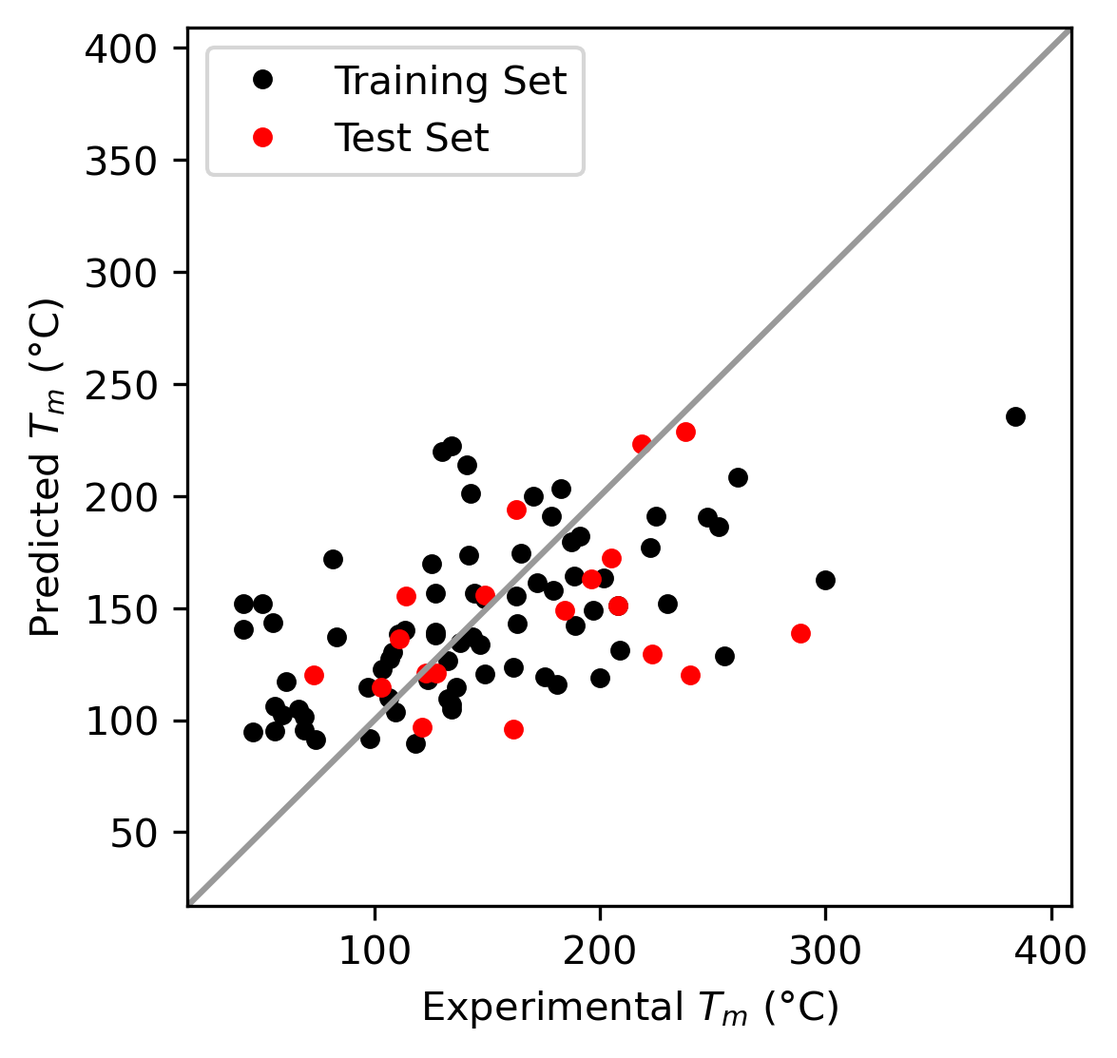
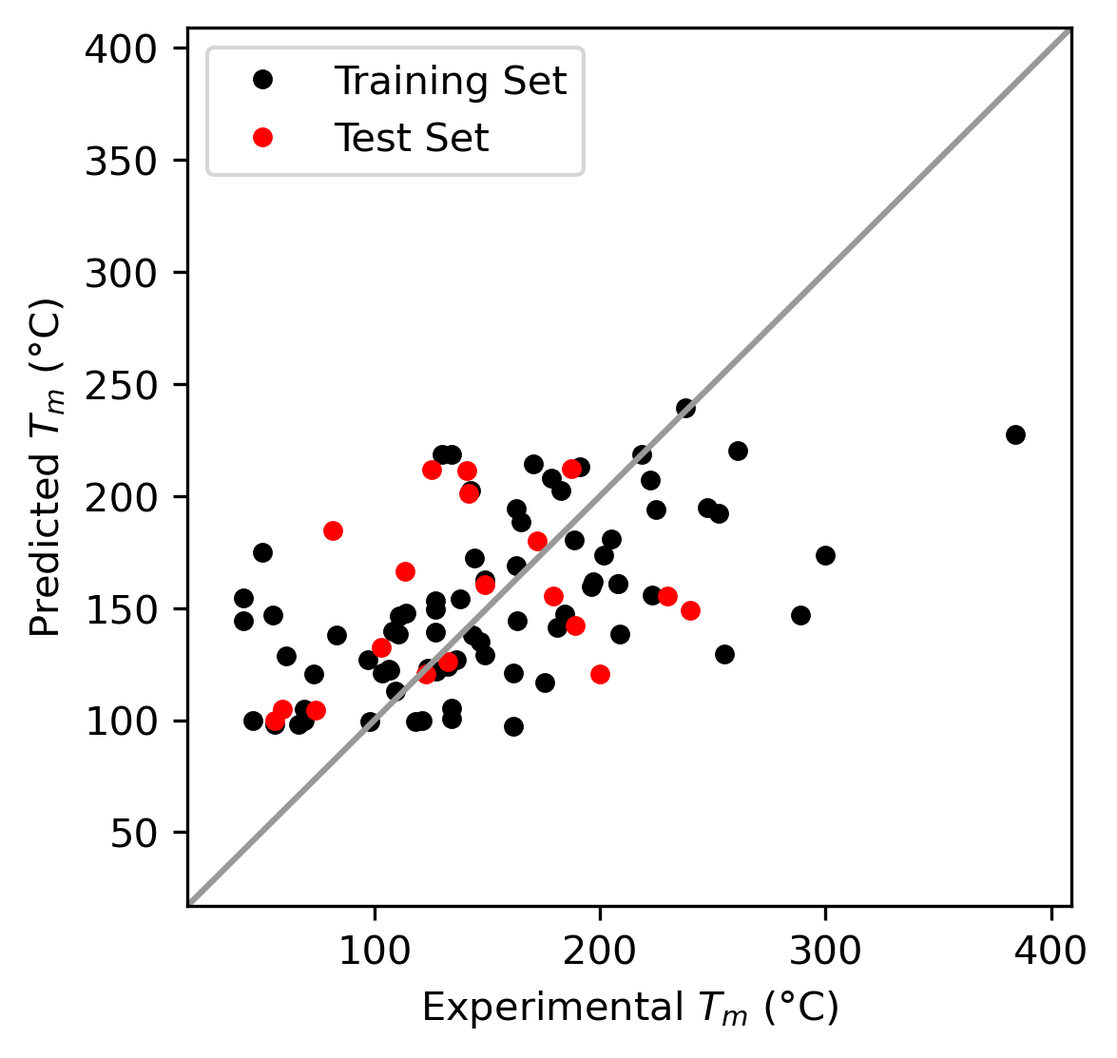
reshuffled quinone VBT set

diff --git a/mp_prediction_paper.py b/mp_prediction_paper.py
@@ -368,7 +368,7 @@ r'''
 r'''
 ## Abstract
 
-In this study, two different computational approaches were developed to predict the melting points of quinone and hydroquinone-based molecules. A traditional machine learning approach was used to calculate features with the Mordred molecular descriptor calculator and train a ridge regression machine learning model. A more simple model that utilizes volume-based thermodynamics to describe the enthalpy of fusion and previously published equations to capture the entropy of melting was also developed. The traditional machine learning model resulted in test set average absolute errors of ~30 C for the quinone test set and ~40 C for the hydroquinone test set. The thermodynamics-based model resulted in average absolute errors of ~40 for the quinone test set and ~30-35 C for the hydroquinone set. The features used for the thermodynamics-based ML model were also applied in a standard ridge regression model, which performed similarly to the functionalized forms of the thermodynamics-based models, indicating that it is the thermodynamic features themselves that are more important as opposed to the precise functional form of the model. Applying the thermodynamics-based model to the combined quinone and hydroquinone dataset resulted in average absolute errors of ~41 C. The machine learning model consistently outperformed the thermodynamic model for the quinone dataset, but the thermodynamic model surpassed the machine learning model for the hydroquinone dataset.
+In this study, two different approaches were investigated to predict the melting points of quinone and hydroquinone-based molecules. A traditional machine learning approach was used to calculate features with the Mordred molecular descriptor calculator and train a ridge regression machine learning model. A simpler model that utilizes volume-based thermodynamics to describe the enthalpy of fusion and previously published equations to capture the entropy of melting was also developed. The traditional machine learning model resulted in test set average absolute errors of ~30 C for the quinone test set and ~40 C for the hydroquinone test set. The thermodynamics-based model resulted in average absolute errors of ~40 for the quinone test set and ~30-35 C for the hydroquinone set. The features used for the thermodynamics-based ML model were also applied in a standard ridge regression model, which performed similarly to the functionalized forms of the thermodynamics-based models, indicating that it is the thermodynamic features themselves that are more important as opposed to the precise functional form of the model. Applying the thermodynamics-based model to the combined quinone and hydroquinone dataset resulted in average absolute errors of ~41 C. The machine learning model consistently outperformed the thermodynamic model for the quinone dataset, but the thermodynamic model surpassed the machine learning model for the hydroquinone dataset. In this study, we also publish four novel datasets for quinone and hydroquinone melting points and other key features.
 
 '''
 
@@ -377,11 +377,9 @@ In this study, two different computational approaches were developed to predict 
 r'''
 ## Introduction
 
-Quinone- and hydroquinone-based molecules have gathered attention recently as electrolyte candidate molecules for redox flow batteries, among other applications\cite{Shimizu2017,Kwabi2018,Goulet2019} __add more citations from EEP's paper__. Our group has recently proposed using a eutectic mixture of benzoquinone-based and naphthoquinone-based molecules as a high energy density positive electrolyte for flow batteries that remains liquid at room temperature. In order to identify promising materials for this application, knowing the melting temperatures of the quinone and hydroquinone molecules is essential. With the model from (Antonio's paper), the melting points of the pure component quinones and hydroquinones can be used to predict the melting point of a eutectic mixture. However, melting data is not always available for all the quinones and hydroquinones of interest. To address this challenge, we seek to develop a data-driven model that can be used to predict the melting points of quinone and hydroquinone molecules that are not available in literature. 
+Quinone- and hydroquinone-based molecules have gathered attention recently as electrolyte candidate molecules for redox flow batteries, among other applications\cite{Shimizu2017,Kwabi2018,Goulet2019} __add more citations from EEP's paper__. Our group has recently proposed using a eutectic mixture of benzoquinone-based and naphthoquinone-based molecules as a high energy density positive electrolyte for flow batteries that remains liquid at room temperature __cite EEP's paper__. In order to identify promising materials for this application, knowing the melting temperatures of the quinone and hydroquinone molecules is essential. With the model from (Antonio's paper), the melting points of the pure component quinones and hydroquinones can be used to predict the melting point of a eutectic mixture. However, melting data is not always available for all the quinones and hydroquinones of interest. To address this challenge, we seek to develop a computational model that can be used to predict the melting points of quinone and hydroquinone molecules that are not available in literature. 
 
-Many melting point prediction models employ group contribution method (GCM). This is an additive method that works by summing the contributions from all the various groups in a molecule (hence "group contribution method"). However, this method does not account for interactions between groups \cite{JOBACK1987}.
-
-Our model utilizes simple molecular descriptors that can be calculated from the two-dimensional structure of the model from a semi-empirical model previously proposed by Dannenfelser and Yalkowsky\cite{DannenfelserEntropy}. The model also uses molecular volume data, which can be calculated using crystal structure data or density measurements, or predicted computationally\cite{Day2011}. The molecular volume data contains information about the strength of the interactions between molecules in the solid phase. This approach provides an advantage over GCM in that the molecular volume in the solid phase of a species inherently accounts for the interactions between molecules.
+Many melting point prediction models employ group contribution method (GCM). This is an additive method that works by summing the contributions from all the various groups in a molecule (hence "group contribution method"). However, this method does not account for interactions between groups \cite{JOBACK1987}. Our model utilizes simple molecular descriptors that can be calculated from the two-dimensional structure of the model from a semi-empirical model previously proposed by Dannenfelser and Yalkowsky\cite{DannenfelserEntropy}. The model also uses molecular volume data, which can be calculated using crystal structure data or density measurements, or predicted computationally\cite{Day2011}. The molecular volume data is presumed to contain information about the strength of the interactions between molecules in the solid phase, and can be used as a proxy for the enthalpy of the solid phase. This approach provides an advantage over GCM in that the molecular volume in the solid phase of a species inherently accounts for the interactions between molecules.
 
 We hypothesized that by grouping molecules that we expected to have similar scaling relationships for enthalpies of melting, we would be able to significantly reduce the number of features required to predict melting points of these molecules with an accuracy comparable to that of traditional machine learning approaches.
 
@@ -407,7 +405,7 @@ From here, we sought to find equations that would describe the enthalpy and entr
 
 #### Entropy of Melting
 
-We use the equation developed by Dannenfelser and Yalkowsky\cite{DannenfelserEntropy} to estimate the entropy of melting:
+We use the equation developed by [Dannenfelser and Yalkowsky](https://doi.org/10.1021/ie940581z) to estimate the entropy of melting:
 $$
 \Delta S_m= a \textrm{ln}\sigma + b \tau + c
 $$
@@ -415,7 +413,7 @@ where $a,b,$ and $c$ are adjustable parameters to be fit with a non-linear least
 
 The first descriptor $\sigma$, which is the molecular symmetry number, is the number of unique rotations that can be performed on the molecule and return an indistinguishable orientation, in addition to the identity. At minimum, $\sigma$ must be 1. As sigma increases, the number of microstates (orientations of the molecule) that produce the same crystal structure increases, thus increasing the overall entropy of the solid (according to the Boltzmann equation, $\Delta S = k_B ln\Omega$. This results in a lower entropy of melting (difference between the entropy of the solid and liquid phases decreases).
 
-The second descriptor, $\tau$, is the number of torsional angles in the molecule and can be calculated using the formula\cite{DannenfelserEntropy}:
+The second descriptor, $\tau$, is the number of torsional angles in the molecule and can be calculated using the [formula](https://doi.org/10.1021/ie940581z):
 
 $$
 \tau = \textrm{SP3} + 0.5(\textrm{SP2}+\textrm{RING}) - 1
@@ -423,7 +421,7 @@ $$
 
 Here, SP3 is the number of $\textrm{sp}^3$ chain atoms (not including end carbons), SP2 is the number of $\textrm{sp}^2$ chain atoms (also not including end carbons), and RING is the number of fused-ring systems. As the effect of tau on the entropies of the solid and liquid phases varies depending on the class of molecules, it is difficult to say whether it increases or decreases the entropy of melting in general.
 
-This model was updated by Lian and Yalkowsky to include two more descriptors for entropy of melting in the Unified Physiochemical Property Estimation Relationships (UPPER) method \cite{LianUPPER2013}. These additional descriptors are 1) aromatic eccentricity - the number of atoms in aromatic rings, and 2) aliphatic eccentricity - the number of atoms in aliphatic (non-aromatic) rings. These terms capture the tendency of flat or elongated molecules to be partially ordered in the liquid (which decreases the change in entropy between the solid and liquid phase, thus decreasing the entropy of melting). Thus, the final form of the equation we used to model the entropy of melting was:
+This model was updated by Lian and Yalkowsky to include two more descriptors for entropy of melting in the [Unified Physiochemical Property Estimation Relationships (UPPER) method](https://doi.org/10.1002/jps.24033). These additional descriptors are 1) aromatic eccentricity - the number of atoms in aromatic rings, and 2) aliphatic eccentricity - the number of atoms in aliphatic (non-aromatic) rings. These terms capture the tendency of flat or elongated molecules to be partially ordered in the liquid (which decreases the change in entropy between the solid and liquid phase, thus decreasing the entropy of melting). Thus, the final form of the equation we used to model the entropy of melting was:
 
 $$
     \Delta S_m= a \textrm{ln}\sigma + b \tau + c \textrm{ln}\epsilon_{ar} + d \textrm{ln}\epsilon_{al} + f
@@ -513,65 +511,8 @@ Where we have normalized the constant in the denominator for reasons discussed a
 
 r'''
 ## Results and Discussion
-
-### Machine Learning Model
 '''
 
-# ML Plots
-#region
-
-col1,col2 = st.columns(2)
-# Quinone ML Plot
-
-with col1:
-    alpha_bq=st.slider('Quinone Ridge Regression alpha (click Generate New Plot after setting)',min_value=0,max_value=200,value=100)
-
-    if st.button('Generate New Quinone ML Plot'):
-        ml_bq_dict=ml_model(ml_dataset_dict,'Quinones',alpha_bq,False)
-
-        ml_bq_dict['Plot'].savefig('Plots/ML_BQ_plot.png',dpi=300)
-        st.write(ml_bq_dict['Plot'])
-
-        pd.Series(ml_bq_dict['AAE']).to_csv('Data Files/ML_BQ_AAE.csv',index=False)
-        pd.Series(ml_bq_dict['RMSE']).to_csv('Data Files/ML_BQ_RMSE.csv',index=False)
-        ml_bq_dict['Model Coefficients'].to_csv('Data Files/ML_BQ_Coefficients.csv',index=False)
-    else:
-        ml_bq_plot=Image.open('Plots/ML_BQ_plot.png')
-        ml_bq_dict = {'RMSE': pd.read_csv('Data Files/ML_BQ_RMSE.csv',squeeze=True),'AAE': pd.read_csv('Data Files/ML_BQ_AAE.csv',squeeze=True),'Plot': ml_bq_plot,'Model Coefficients': pd.read_csv('Data Files/ML_BQ_Coefficients.csv')}
-        
-        st.image(ml_bq_dict['Plot'],use_column_width=True)
-
-    st.markdown('''ML model for quinone dataset. Training set absolute average error is `{:.2f} C` and test set average absolute error is `{:.2f} C`. Training set RMSE is `{:.2f} C` and test set RMSE is `{:.2f} C`.'''.format(ml_bq_dict['AAE'][1],ml_bq_dict['AAE'][0],ml_bq_dict['RMSE'][1],ml_bq_dict['RMSE'][0]) )
-    st.write(ml_bq_dict['Model Coefficients'].sort_values(by='w_abs',ascending=False).head(20))
-
-
-# Hydroquinone ML Plot
-with col2:
-    alpha_hq=st.slider('Hydroquinone Ridge Regression alpha (click Generate New Plot after setting)',min_value=0,max_value=200,value=100)
-
-    if st.button('Generate New Hydroquinone ML Plot'):
-        ml_hq_dict=ml_model(ml_dataset_dict,'Hydroquinones',alpha_hq,False)
-        ml_hq_dict['Plot'].savefig('Plots/ML_HQ_plot.png',dpi=300)
-        st.write(ml_hq_dict['Plot'])
-        pd.Series(ml_hq_dict['AAE']).to_csv('Data Files/ML_HQ_AAE.csv',index=False)
-        pd.Series(ml_hq_dict['RMSE']).to_csv('Data Files/ML_HQ_RMSE.csv',index=False)
-        ml_hq_dict['Model Coefficients'].to_csv('Data Files/ML_HQ_Coefficients.csv',index=False)
-    else:
-        ml_hq_plot = Image.open('Plots/ML_HQ_plot.png')
-        ml_hq_dict = {'RMSE': pd.read_csv('Data Files/ML_HQ_RMSE.csv',squeeze=True),'AAE': pd.read_csv('Data Files/ML_HQ_AAE.csv',squeeze=True),'Model Coefficients': pd.read_csv('Data Files/ML_HQ_Coefficients.csv')}
-        st.image(ml_hq_plot,use_column_width=True)
-
-    st.markdown('''ML model for hydroquinone dataset. Training set absolute average error is `{:.2f} C` and test set average absolute error is `{:.2f} C`. Training set RMSE is `{:.2f} C` and test set RMSE is `{:.2f} C`.'''.format(ml_hq_dict['AAE'][1],ml_hq_dict['AAE'][0],ml_hq_dict['RMSE'][1],ml_hq_dict['RMSE'][0]) )
-    st.write(ml_hq_dict['Model Coefficients'].sort_values(by='w_abs',ascending=False).head(20))
-
-#endregion
-
-r'''
-Both quinone and hydroquinone datasets were modeled using a default alpha value of 100. With repeated re-shuffling of the training and test sets, we find that the quinone ML both qualitatively and quantitatively has higher predictive power than the hydroquinone ML model. The quinone dataset average absolute errors are consistently less than 30 C for both the training and test sets, while for the hydroquinone dataset they are usually between 35-40 C. Visually, we also see that the quinone dataset follows the perfect prediction (dashed) trend line. On the other hand, the hydroquinone models appears skewed, such that the melting points of the lower $T_m$ molecules are overpredicted and those of the higher $T_m$ molecules are underpredicted. It appears that melting point has some dependence that is not as well-captured by the Mordred-generated features for the hydroquinones as it is for the quinones. As the molecular features are generated based just on the SMILES string of the molecule, it is difficult to imagine that complexities such intermolecular interactions (which we would expect to be higher for hydroquinones than quinones due to hydrogen bonding) are well-described by these calculated features. 
-
-Both models are highly susceptible to overfitting, as we can see by decreasing alpha. A value of alpha = 0 corresponds to a simple linear regression - there is no penalty for having more features with higher weights (parameters) included in the model. When we do lower alpha to 0, we see that the training set errors (both AAE and RMSE) drop to less than 20 C for the quinones and less than 50 C for the hydroquinones. However, the test set errors explode, with RMSEs above 1000 C for the quinones and 10^14 C for the hydroquinones. Again the model is noticeably worse for the hydroquinones.
-
-'''
 
 r'''
 ### Thermodynamics-Based Model
@@ -740,6 +681,67 @@ st.write(vbt_bqhq_dict['Parameters'])
 r'''
 The thermodynamics-based model applied to the combined quinone and hydroquinone dataset has higher errors than the both separate quinone and hydroquinone models. This shows that there is value in keeping the models separate. We would expect the strength of the intermolecular interactions between quinone molecules to differ from those of hydroquinones, and these relationships to be reflected in the model parameters. Applying the same model to both datasets appears to result in an "averaging" of these interactions, leading to worse melting point predictions for both, supporting the hypothesis that the strength of the intermolecular interactions varies between quinones and hydroquinones.
 '''
+r'''
+### Machine Learning Models
+
+#### ML Model using Mordred Features
+'''
+
+# ML Plots
+#region
+
+col1,col2 = st.columns(2)
+# Quinone ML Plot
+
+with col1:
+    alpha_bq=st.slider('Quinone Ridge Regression alpha (click Generate New Plot after setting)',min_value=0,max_value=200,value=100)
+
+    if st.button('Generate New Quinone ML Plot'):
+        ml_bq_dict=ml_model(ml_dataset_dict,'Quinones',alpha_bq,False)
+
+        ml_bq_dict['Plot'].savefig('Plots/ML_BQ_plot.png',dpi=300)
+        st.write(ml_bq_dict['Plot'])
+
+        pd.Series(ml_bq_dict['AAE']).to_csv('Data Files/ML_BQ_AAE.csv',index=False)
+        pd.Series(ml_bq_dict['RMSE']).to_csv('Data Files/ML_BQ_RMSE.csv',index=False)
+        ml_bq_dict['Model Coefficients'].to_csv('Data Files/ML_BQ_Coefficients.csv',index=False)
+    else:
+        ml_bq_plot=Image.open('Plots/ML_BQ_plot.png')
+        ml_bq_dict = {'RMSE': pd.read_csv('Data Files/ML_BQ_RMSE.csv',squeeze=True),'AAE': pd.read_csv('Data Files/ML_BQ_AAE.csv',squeeze=True),'Plot': ml_bq_plot,'Model Coefficients': pd.read_csv('Data Files/ML_BQ_Coefficients.csv')}
+        
+        st.image(ml_bq_dict['Plot'],use_column_width=True)
+
+    st.markdown('''ML model for quinone dataset. Training set absolute average error is `{:.2f} C` and test set average absolute error is `{:.2f} C`. Training set RMSE is `{:.2f} C` and test set RMSE is `{:.2f} C`.'''.format(ml_bq_dict['AAE'][1],ml_bq_dict['AAE'][0],ml_bq_dict['RMSE'][1],ml_bq_dict['RMSE'][0]) )
+    st.write(ml_bq_dict['Model Coefficients'].sort_values(by='w_abs',ascending=False).head(20))
+
+
+# Hydroquinone ML Plot
+with col2:
+    alpha_hq=st.slider('Hydroquinone Ridge Regression alpha (click Generate New Plot after setting)',min_value=0,max_value=200,value=100)
+
+    if st.button('Generate New Hydroquinone ML Plot'):
+        ml_hq_dict=ml_model(ml_dataset_dict,'Hydroquinones',alpha_hq,False)
+        ml_hq_dict['Plot'].savefig('Plots/ML_HQ_plot.png',dpi=300)
+        st.write(ml_hq_dict['Plot'])
+        pd.Series(ml_hq_dict['AAE']).to_csv('Data Files/ML_HQ_AAE.csv',index=False)
+        pd.Series(ml_hq_dict['RMSE']).to_csv('Data Files/ML_HQ_RMSE.csv',index=False)
+        ml_hq_dict['Model Coefficients'].to_csv('Data Files/ML_HQ_Coefficients.csv',index=False)
+    else:
+        ml_hq_plot = Image.open('Plots/ML_HQ_plot.png')
+        ml_hq_dict = {'RMSE': pd.read_csv('Data Files/ML_HQ_RMSE.csv',squeeze=True),'AAE': pd.read_csv('Data Files/ML_HQ_AAE.csv',squeeze=True),'Model Coefficients': pd.read_csv('Data Files/ML_HQ_Coefficients.csv')}
+        st.image(ml_hq_plot,use_column_width=True)
+
+    st.markdown('''ML model for hydroquinone dataset. Training set absolute average error is `{:.2f} C` and test set average absolute error is `{:.2f} C`. Training set RMSE is `{:.2f} C` and test set RMSE is `{:.2f} C`.'''.format(ml_hq_dict['AAE'][1],ml_hq_dict['AAE'][0],ml_hq_dict['RMSE'][1],ml_hq_dict['RMSE'][0]) )
+    st.write(ml_hq_dict['Model Coefficients'].sort_values(by='w_abs',ascending=False).head(20))
+
+#endregion
+
+r'''
+Both quinone and hydroquinone datasets were modeled using a default alpha value of 100. With repeated re-shuffling of the training and test sets, we find that the quinone ML both qualitatively and quantitatively has higher predictive power than the hydroquinone ML model. The quinone dataset average absolute errors are consistently less than 30 C for both the training and test sets, while for the hydroquinone dataset they are usually between 35-40 C. Visually, we also see that the quinone dataset follows the perfect prediction (dashed) trend line. On the other hand, the hydroquinone models appears skewed, such that the melting points of the lower $T_m$ molecules are overpredicted and those of the higher $T_m$ molecules are underpredicted. It appears that melting point has some dependence that is not as well-captured by the Mordred-generated features for the hydroquinones as it is for the quinones. As the molecular features are generated based just on the SMILES string of the molecule, it is difficult to imagine that complexities such intermolecular interactions (which we would expect to be higher for hydroquinones than quinones due to hydrogen bonding) are well-described by these calculated features. 
+
+Both models are highly susceptible to overfitting, as we can see by decreasing alpha. A value of alpha = 0 corresponds to a simple linear regression - there is no penalty for having more features with higher weights (parameters) included in the model. When we do lower alpha to 0, we see that the training set errors (both AAE and RMSE) drop to less than 20 C for the quinones and less than 50 C for the hydroquinones. However, the test set errors explode, with RMSEs above 1000 C for the quinones and 10^14 C for the hydroquinones. Again the model is noticeably worse for the hydroquinones.
+
+'''
 
 r'''
 #### Ridge Regression Model using Thermodynamic Features
@@ -837,7 +839,9 @@ We wrote a script that allowed us to specify any functional form of the model th
 r'''
 ## Acknowledgements
 
-This work was supported in part by ExxonMobil and the National Science Foundation. This analysis would not have been possible without the creators of the following python packages: Streamlit, pandas, numpy, matplotlib, scipy, statistics, sklearn, rdkit, and mordred. Building our ML datasets was made possible using the Reaxys database. Acquiring crystal structures for most of the compounds in our datasets was made significantly helped by the CCDC. 
+This work was supported in part by ExxonMobil and the National Science Foundation. This analysis would not have been possible without the creators of the following python packages: Streamlit, pandas, numpy, matplotlib, scipy, statistics, sklearn, rdkit, and mordred. Building our ML datasets was made possible using the Reaxys database. Acquiring crystal structures for most of the compounds in our datasets was made significantly helped by the CCDC.
+
+AIonics - Austin
 '''
 
 r'''
@@ -849,7 +853,7 @@ To be added in Overleaf
 r'''
 ## Supplementary Information
 
-All data and code used in our analysis can be viewed in our repository (URL: XX) - readers can test different model forms by downloading the repository and changing the model form for the desired dataset in the mp_prediction_paper.py script. If viewing this paper in our Streamlit app, readers have the option to re-shuffle the training and test sets and view the results by clicking "Generate New Plot" for the relevant dataset and model type (but will not be able to test different model forms). The displayed errors and parameter values will automatically update as well.
+All data and code used in our analysis can be viewed in our repository (URL: https://github.com/dganapat/melting_point_prediction_paper) - readers can test different model forms by downloading the repository and changing the model form for the desired dataset in the mp_prediction_paper.py script. The interactive version of this paper can be viewed at https://dganapat-melting-point-prediction-pa-mp-prediction-paper-00ju76.streamlitapp.com/. If viewing this paper in our Streamlit app, readers have the option to re-shuffle the training and test sets and view the results by clicking "Generate New Plot" for the relevant dataset and model type (but will not be able to test different model forms). The displayed errors and parameter values will automatically update as well.
 '''
 # How to put code in markdown using python formatting
     # '''
@@ -859,6 +863,34 @@ All data and code used in our analysis can be viewed in our repository (URL: XX)
     # ```
     # '''
 
+# Will 20220715
+# Paper is not to show off the ML
+# It's to compare different approaches
+# Compare the methods with a table and 
+# Don't need to be selling anything
+# Conclusion could be that the physics model was expected to be more powerful, but because it's only empirical, maybe
+# Try employing the features from the phenomelogical models into the ML model
+# Flavor is very different - not showcasing the model - it's more of a systematic comparison
+# Need to confirm that we're making fair comparisons
+# Need to be careful because we have different datasets
+# Graphically depict the different models and what features are going into which models
+# In order to expand the dataset, we now rely on a different set of inputs
+# Landscape figure like figure 1 to define the data analysis problem. Make a flow chart of the inputs and outputs and defines what datasets are being used
+# In architecting the figure I might figure out what I missed
+# Rationalize the high value features in the ML ridge regression mordred features
+# Graphical plot to show the weights
+# Start with the thermodynamic model, then compare to ML model
+# Brandi's paper with Evan Reed is pretty similar (2021) screning through a large number of cathodes and optimizing for 3/4 parameters - tSNE plot that shows correlation
+# Recurring theme for my work: what is the right amount of physics - at what point are we including too much physics?
+# Refer to Emily and Antonio's papers on ArXiv
+# Sharing this is an example of good ML work
+# Play with the order of the presentation of the models
+# If the ML model is unbeatable, you want to put it at the end
+# want the systematic-ness to be more appreciated and draw a conclusion from the relative 
+# Look at Dean's 4D stem analysis paper where he rigorously compares different models
+# Discuss with Eder or Brandi if there are typical homes for these kinds of papers
+# It's not electrochemistry or materials so not sure where to publish - maybe PCCP or look at the papers I'm citing and see where they're published
+# Make one or 2 slides at the end of the thesis talk to refer to data driven work in different contexts
 
 # To do:
     # Figure out if there's something wrong with hydroquinone data
